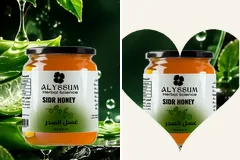
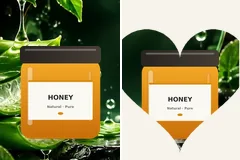
إزالة منتجات أليسوم من القوالب وبطاقات الأدوات: منتجات عامة بلا علامة + صور عامة لقالب عسل التركيز

diff --git a/scripts/gen-generic-products.py b/scripts/gen-generic-products.py
@@ -1,0 +1,57 @@
+#!/usr/bin/env python3
+"""يولّد صور منتجات عامة (بلا أي علامة أو منتج حقيقي) بخلفية شفافة: assets/img/tpl/generic-honey|cream|bottle.webp
+تُستعمل في بطاقات أدوات الصور وفي القوالب بدل صور منتجات أليسوم. بلا ذكاء اصطناعي: رسم بـPIL."""
+import os
+from PIL import Image, ImageDraw, ImageFilter, ImageFont
+R = os.path.dirname(os.path.dirname(os.path.abspath(__file__)))
+OUT = os.path.join(R, 'assets/img/tpl'); S = 4; W = H = 700
+FB = '/usr/share/fonts/truetype/dejavu/DejaVuSans-Bold.ttf'
+def font(sz):
+    try: return ImageFont.truetype(FB, sz * S)
+    except Exception: return ImageFont.load_default(size=sz * S)
+def grad(w, h, top, bot, horiz=False):
+    im = Image.new('RGBA', (w, h)); d = ImageDraw.Draw(im); n = w if horiz else h
+    for i in range(n):
+        t = i / max(1, n - 1); c = tuple(int(top[k] + (bot[k] - top[k]) * t) for k in range(3)) + (255,)
+        d.line([(i, 0), (i, h)] if horiz else [(0, i), (w, i)], fill=c)
+    return im
+def rr_mask(w, h, r):
+    m = Image.new('L', (w, h), 0); ImageDraw.Draw(m).rounded_rectangle([0, 0, w - 1, h - 1], r, fill=255); return m
+def paste_rr(base, im, x, y, r):
+    base.paste(im, (x, y), rr_mask(im.width, im.height, r))
+def shine(base, x, y, w, h, a=90):
+    g = Image.new('RGBA', base.size, (0, 0, 0, 0)); ImageDraw.Draw(g).rounded_rectangle([x, y, x + w, y + h], w // 2, fill=(255, 255, 255, a)); base.alpha_composite(g.filter(ImageFilter.GaussianBlur(2 * S)))
+def label(base, x, y, w, h, title, sub, accent, bg=(250, 248, 242)):
+    paste_rr(base, Image.new('RGBA', (w, h), bg + (255,)), x, y, 6 * S); d = ImageDraw.Draw(base)
+    d.rounded_rectangle([x, y, x + w, y + 10 * S], 3 * S, fill=accent + (255,))
+    f1, f2 = font(34), font(18)
+    for txt, f, yy, col in ((title, f1, y + h * .34, (40, 40, 40)), (sub, f2, y + h * .62, (110, 110, 110))):
+        tw = d.textlength(txt, font=f); d.text((x + (w - tw) / 2, yy), txt, font=f, fill=col + (255,))
+    # ورقة عامة
+    cx, cy = x + w / 2, y + h * .84; d.ellipse([cx - 14 * S, cy - 7 * S, cx + 14 * S, cy + 7 * S], fill=accent + (255,))
+def shadow(base, box):
+    sh = Image.new('RGBA', base.size, (0, 0, 0, 0)); ImageDraw.Draw(sh).ellipse(box, fill=(0, 0, 0, 70)); base.alpha_composite(sh.filter(ImageFilter.GaussianBlur(10 * S)))
+def jar(body_top, body_bot, lid, accent, title, sub):
+    c = Image.new('RGBA', (W * S, H * S), (0, 0, 0, 0)); cx = W * S // 2
+    bw, bh, bx, by = 420 * S, 420 * S, cx - 210 * S, 190 * S
+    shadow(c, [bx + 20 * S, by + bh - 8 * S, bx + bw - 20 * S, by + bh + 34 * S])
+    body = grad(bw, bh, body_top, body_bot, False); paste_rr(c, body, bx, by, 56 * S)
+    shine(c, bx + 34 * S, by + 40 * S, 30 * S, bh - 110 * S, 100); shine(c, bx + bw - 62 * S, by + 60 * S, 14 * S, bh - 150 * S, 55)
+    paste_rr(c, grad(bw + 8 * S, 92 * S, lid[0], lid[1], True), bx - 4 * S, by - 70 * S, 20 * S); shine(c, bx + 20 * S, by - 56 * S, bw - 40 * S, 12 * S, 70)
+    label(c, bx + 40 * S, by + 110 * S, bw - 80 * S, 210 * S, title, sub, accent)
+    c = c.resize((W, H), Image.LANCZOS); bb = c.getchannel('A').getbbox(); return c.crop(bb)
+def bottle():
+    c = Image.new('RGBA', (W * S, H * S), (0, 0, 0, 0)); cx = W * S // 2
+    bw, bx, by, bh = 300 * S, cx - 150 * S, 250 * S, 400 * S
+    shadow(c, [bx, by + bh - 10 * S, bx + bw, by + bh + 30 * S])
+    paste_rr(c, grad(bw, bh, (58, 40, 30), (28, 18, 12), True), bx, by, 46 * S); shine(c, bx + 28 * S, by + 24 * S, 22 * S, bh - 70 * S, 90)
+    paste_rr(c, grad(110 * S, 80 * S, (70, 50, 38), (40, 28, 20), True), cx - 55 * S, by - 70 * S, 14 * S)
+    paste_rr(c, grad(150 * S, 74 * S, (30, 30, 30), (60, 60, 60), True), cx - 75 * S, by - 140 * S, 30 * S)
+    ImageDraw.Draw(c).rounded_rectangle([cx - 14 * S, by - 220 * S, cx + 14 * S, by - 140 * S], 8 * S, fill=(40, 40, 40, 255))
+    label(c, bx + 34 * S, by + 100 * S, bw - 68 * S, 190 * S, 'NATURAL', 'ESSENTIAL OIL', (46, 125, 90))
+    c = c.resize((W, H), Image.LANCZOS); bb = c.getchannel('A').getbbox(); return c.crop(bb)
+if __name__ == '__main__':
+    items = {'generic-honey': jar((246, 170, 40), (200, 110, 10), ((40, 36, 32), (70, 62, 54)), (214, 140, 20), 'HONEY', 'Natural · Pure'),
+             'generic-cream': jar((250, 250, 248), (226, 232, 230), ((40, 120, 100), (60, 150, 124)), (40, 120, 100), 'CREAM', 'Skin Care'),
+             'generic-bottle': bottle()}
+    for k, im in items.items(): im.save(os.path.join(OUT, k + '.webp'), quality=92); print(k, im.size)

diff --git a/scripts/gen-tool-thumbs.py b/scripts/gen-tool-thumbs.py
@@ -1,5 +1,5 @@
 #!/usr/bin/env python3
-"""يولّد صور أدوات «تعديل الصورة» (assets/img/tools/*.webp): كل صورة نصفها قبل ونصفها بعد، من صور منتجات المتجر الحقيقية. بلا ذكاء اصطناعي."""
+"""يولّد صور أدوات «تعديل الصورة» (assets/img/tools/*.webp): كل صورة نصفها قبل ونصفها بعد، من صور منتجات عامة بلا علامة (scripts/gen-generic-products.py). بلا ذكاء اصطناعي."""
 import os, random, math
 from PIL import Image, ImageDraw, ImageFilter, ImageEnhance, ImageFont, ImageChops
 R = os.path.dirname(os.path.dirname(os.path.abspath(__file__)))
@@ -8,9 +8,9 @@ W, H = 240, 160
 def P(*a): return os.path.join(R, *a)
 def trim(im):
     bb = im.getchannel('A').point(lambda v: 255 if v > 24 else 0).getbbox(); return im.crop(bb) if bb else im
-HONEY = trim(Image.open(P('assets/img/miel-sidr/0.webp')).convert('RGBA'))
-CREAM = trim(Image.open(P('assets/img/anti-acne/cover-1791483275654.webp')).convert('RGBA'))
-KOHL = trim(Image.open(P('assets/img/ithmed/0.webp')).convert('RGBA'))
+HONEY = trim(Image.open(P('assets/img/tpl/generic-honey.webp')).convert('RGBA'))
+CREAM = trim(Image.open(P('assets/img/tpl/generic-cream.webp')).convert('RGBA'))
+KOHL = trim(Image.open(P('assets/img/tpl/generic-bottle.webp')).convert('RGBA'))
 def prod(im, h): return im.resize((max(1, round(im.width * h / im.height)), h), Image.LANCZOS)
 def scene(i, w=W, h=H):
     im = Image.open(P('assets/img/tpl/alyssum-sc%d.webp' % i)).convert('RGB'); s = max(w / im.width, h / im.height)

diff --git a/CLAUDE.md b/CLAUDE.md
@@ -108,6 +108,7 @@
 **معايرة الصوت (v1.89.61):** زر «اضبط كلمة النداء» في اللوحة (`AdminVoice.calibrate`) يطلب «hi اسم المتجر» ثلاث مرات ويحفظ صيغ النطق التي يلتقطها المتصفح في `localStorage alyssum_voice_wake` (`{variants,lang}`) فتُقبل كلمات نداء إضافية؛ `resetWake` يمسحها. **حدّ صريح:** Web Speech API يعطي نصاً لا صوتاً، فلا بصمة صوتية ولا تحقق من هوية المتكلم (أي صوت ينطق كلمة النداء يُنفّذ؛ الأمان من جلسة الدخول وتأكيد الأوامر الحساسة). أرقام منطوقة بالفصحى/الدارجة/الفرنسية (`numberIn`). **أضف صيغة جديدة في القاموس لا في الشيفرة**، ثم مثالاً في `examples`؛ اختبار: `node scripts/test-voice.js` (131 حالة، يقرأ admin.html وadmin-help.json والقاموس). اختُبر في Playwright على نسخة PHP محلية بمحاكاة `SpeechRecognition`؛ **لم يُجرَّب بميكروفون حقيقي** (جودة التعرّف على الدارجة تتفاوت وتعتمد على Chrome). المراحل القادمة: حالة الطلب/المرجع «هذا» للطلبات، محرّر الصفحات، فهم حرّ بالذكاء الاصطناعي.
 
 **v1.89.156 — المحاسب الفعلي (المالية والعملاء للقراءة):** `finance` و`customers` خرجتا من `SOON` (بقيت `ship, products, marketing, site`) وصارت `RO_TABS` {finance, payments, costs, customers} تُفتح لغير المالك **قراءةً فقط**؛ المحاسب = `orders, analytics, finance, customers`، والدعم والمدير المساعد يأخذان `customers`. الخادم: Supabase سياسة `staff finance read kv` على `admin_kv` (مفاتيح `costs, finset, stockcfg, stocklog, ydfees, ydactual, adcfg, costcalc, costmats, recipes` select فقط لمن `has_perm('finance')`؛ بقية المفاتيح كـ`guard_secret` مغلقة) في `supabase/roles.sql` (طُبِّق وجُرِّب بمعاملة تتراجع)؛ PHP: `kv` GET لمفاتيح المالية و`file` GET لـ`assets/data/payments.json` (finance) و`customers.json` (customers) فقط، وكل كتابة وبقية المسارات `needOwner()` (403 للموظف). الواجهة: `AdminRoles.isReadOnly/denyWrite` يحرسان `Priv.set` و`GH.putFile` و`AdminPayments.save` و`AdminCustomers.persist` (لا كتابة محلية صامتة للموظف)، وشريط `.rl-robar` «عرض فقط» أعلى كل قسم في `RO_TABS`، و`AdminPayments.load` يقرأ النسخة المنشورة لموظف بلا ربط نشر. **تنبيه خصوصية قائم:** `assets/data/payments.json` و`customers.json` ملفان عامان في الموقع المنشور (يقرؤهما أي زائر بالرابط) — اقتراح: نقلهما إلى التخزين الخاص (`admin_kv`/`kv`). `test-roles-ui.js` فيه سيناريو المحاسب (36 فحصاً) و`test-roles-php.php` 98.
+**قاعدة صور القوالب والأدوات (أمر صاحب المتجر: «انزع جميع منتجات أليسوم من القوالب والصورة الافتراضية، وضع صور عامة»):** القوالب وبطاقات الأدوات لا تحوي صور/أسماء منتجات أليسوم الحقيقية. المنتجات العامة الشفافة `assets/img/tpl/generic-honey|cream|bottle.webp` مولَّدة بلا علامة بـ`python3 scripts/gen-generic-products.py` (PIL، لا AI، وفي shared-files)؛ بطاقات `assets/img/tools/*` تُولَّد منها (`gen-tool-thumbs.py`)؛ `alyssum-banner-prod.webp` صار البرطمان العام نفسه؛ وقالب «هبوط: عسل التركيز» (`focus-honey.json`) صوره من صور `tpl/` العامة وslug `honey-landing` بلا منتج مربوط (`prod:""` تملؤه `libUse`). **أي قالب أو صورة افتراضية جديدة: صور من `assets/img/tpl/` أو العامة أعلاه فقط.** بقيت مشاهد `alyssum-*` (خلفيات نباتية بلا منتجات) وصور الفئات.
 **v1.89.162 — الصفحة بيضاء بلا شبكة افتراضياً في المطوّر (طلب صاحب المتجر):** الشبكة (`.pbx-nogrid` على جسم الإطار) صارت اختيارية: افتراضياً مخفية، وزر `#pbx-grid` «▦ شبكة» في الشريط العلوي (`PBApp.toggleGrid`) وعنصر «الدلائل» في قائمة الزر الأيمن للقسم يبدّلانها، والاختيار محفوظ في `localStorage pbx_grid` (`"1"` = ظاهرة) ويُطبَّق عند فتح كل صفحة (`gridOn()` في `FRAMEDOC`). لون الصفحة نفسه أبيض افتراضياً (`page.bg`). فحصان في test-hand.
 **v1.89.161 — إكمال أدوات الصور (أمر صاحب المتجر: «لا تتوقف حتى تكمل جميع الأدوات الممكنة، بطاقات نصف قبل ونصف بعد»):** كل أداة بطاقة بصورة نصفها قبل ونصفها بعد (`assets/img/tools/<id>.webp` من `scripts/gen-tool-thumbs.py`، بلا AI). في تبويب «تعديل الصورة» (`IMG_TOOLS` عشر أدوات + `IMG_SM` خمس ذكية، `EP_TABS`/`epBody`/`epDraw`/`epClose` تربط كل لوحة): **محلية بلا مفتاح:** `PBRetouch` «لمسات وتصحيح» (تحسين تلقائي، تقليل ضوضاء، تصحيح منظور، تغيير لون بالنقر Recolor، قص الحواف، vignette، حبيبات)، `PBFade` «حواف ناعمة Contour fondu» (مربع/دائرة بتمويه غاوسي يضبطه المستخدم، معاينة حيّة على الصورة نفسها عبر `PBApp.stPreview` ثم تطبيق PNG بشفافية)، `PBFrame` «إطار وهوية» (حدّ/زوايا/هامش/ظل بطاقة + ختم شعار محفوظ `pbx_brand_logo`)، `PBCollage` «كولاج» (8 قوالب من صور الصفحة)، `PBVideo` «فيديو من الصورة» (Ken Burns بـ`MediaRecorder`/`captureStream` → WebM/MP4 للتنزيل)، والممحاة بالفرشاة (`ERASER_ON=true`: MI-GAN محلي مع ترميم احتياطي). **ذكية بـAlyssum API** (`ImgGen.edit` الجديدة: تأكيد تكلفة + حدّ إنفاق + رمزا OFF/NOKEY، و`ImgGen.ready()` لحالة المفتاح): `PBAI` «توسيع الخلفية» (قماش مُجهَّز بهوامش مموّهة + تعليمات outpaint، ثم **يُلصق الأصل فوق الناتج بحافة مُنعَّمة فلا يمسّ المنتج بكسلاً**)، «تعديل بالوصف» (اقتراحات: لون المنتج، إضاءة، خلفية، إزالة…)، «أساليب تصوير ذكية» (12 أسلوباً AI Shot List)، و«مشهد ذكي». **أدوات المتجر:** `assets/js/admin-imgqa.js` (`AdminImgQA`، تبويب أدوات الصور): **فحص جودة الأغلفة** (دقة، وضوح بتباين لابلاس، إضاءة، حجم المنتج في الإطار، قصّ الحواف، خلفية ونسبة مخالفتان للأغلبية) **وكل ملاحظة بحلّها** (لا تقرير بلا حل) + **«طبّق نمط المتجر»** (نزع خلفية ← تحسين ← تركيب نمط استوديو المنتج المحفوظ) على المحدّد بمعاينة قبل/بعد ثم اعتماد يستبدل الأغلفة (القديمة تبقى في صور المنتج) وينشر مرة واحدة؛ وخيار «قالب المعالجة» داخل `AdminImgBatch` يطبّق النمط نفسه على أي دفعة. اختبارات: `NODE_PATH=/opt/node-tools/node_modules node scripts/test-imgtools.js` (46 فحصاً على Canvas حقيقي) وحالات الأدوات في test-hand. **دمج صورة داخل صورة (`PBBlend`، `pagebuilder-more.js`):** صورة صغيرة من صور الصفحة تُدمج في الكبيرة بحواف ناعمة (Contour fondu) وشفافية وأنماط مزج وموضع. **توسيع الصورة بالذكاء بإطار يُسحب للخارج (`PBAI` + `drawXp/startXp/xpApply` في pagebuilder-editor.js):** عند فتح أداة «توسيع الخلفية» يصير الإطار البنفسجي `.pbx-box.xp` بثمانية مقابض تُسحب **للخارج فقط** (الحالة `E.xp={id,l,r,t,b}` بوحدات الصفحة، حدّ 150% لكل جهة، والصورة لا تتحرك)، وزر النسبة/الموضع يضبط الإطار؛ «أنشئ خيارين» يُرسل طلبين (الثاني بتعليمة `VARIATION B` لامتداد مختلف) بتأكيد تكلفة واحد (`ImgGen.estimate()` ← ضعف التكلفة) ثم يعرض **خيارين للاختيار** (`S.vars`، `pickVar`) وفي كل منهما يُلصق الأصل فوق الناتج؛ التطبيق يرفع الصورة ثم يكبّر إطار العنصر **الحر** (`fx/fy/fwd/fh`) بقدر الإطار الموسَّع فيبقى الأصل بمقاسه ومكانه (العنصر غير الحر تُستبدل صورته فقط). إن اختلفت نسبة الإطار الظاهر عن نسبة الملف (قصّ cover) يُقصّ الأصل لنسبة الإطار قبل التوليد. اختبارات: test-imgtools (53) وحالات سحب الإطار والخيارين في test-hand. **حدود:** أدوات Alyssum API لم تُجرَّب بمفتاح حقيقي (محاكاة)، ونزع الخلفية/MI-GAN بالنماذج المحجوبة في بيئة الجلسة لم يُجرَّب بها (يعمل الكلاسيكي/الترميم المحلي)، والفيديو لا يُرفع للمكتبة تلقائياً (تنزيل).
 **v1.89.160 — تبويب «المعايرة» في لوحة المزوّد (لك وحدك؛ أمر صاحب المتجر: «بشرط تكون على صفحة إدارة SaaS لا يراها الزبائن»):** `saas/calibration.js` (`SaasCalib`) + تبويب `calib` في `saas/index.html`/`app.js` (لا يدخل مواقع الزبائن). يقرأ بلاغات المعايرة الصامتة (`saas_calib_issues`: تذاكر `payload.type=carrier_calibration`) ويجمّعها: (1) **حالات الطرود المجهولة** مجمّعة حسب (شركة، نص مطبَّع) بعدد المواقع والطرود، باقتراح برمجي بالكلمات المفتاحية (fr/ar/en، تخمين يراجعه المدير وليس قراراً آلياً) وزر «اعتمد وعمِّم» ← `saas_fix_set` (جدول `saas_carrier_fixes`، `saas/carrier-fixes.sql` **طُبِّق على المشروع الحقيقي** بإذنك السابق للـSupabase) ويُغلق التذاكر المرتبطة؛ (2) **مشاكل أخرى** (بلديات غير موجودة، فشل التتبع، webhook غير مفهوم) مجمّعة بعدد المواقع مع «تمّت المعالجة»؛ (3) قائمة القرارات المعتمدة وحذفها. **التعميم التلقائي:** `saas_carrier_fixes()` قراءة عامة بلا أسرار (anon)؛ لوحة الزبون (`ShipAgg.syncFixes` عند كل تحميل، بصمة `alyssum_fixes_h` تمنع التكرار) تجلبها عبر `SaasClient.fixes()` وتدمج قرارات شركاته فقط في ملف الاتصال: PHP `ship_fixes` ← `ConnectionRepository::applyFixes` والبوابة `POST /v1/connections/fixes`، ويحفظها الملف في المفتاح `fixes` الذي **يسبق القاموس و`status_overrides`** في `mapStatus/explainStatus` (PHP وJS) ويبقى عبر إعادة المعايرة. **تنبيه:** تطبيع `norm` في المتصفح يجب أن يطابق `StatusMapper::normalize` و`normText` حرفياً (اختبار تطابق في `test-shipagg.js`). `Calibrator::summary` صار يعيد `statuses.unknown_list` (حتى 20) وتبلغ لوحة الزبون `payload.unknown` منظَّمةً. اختبارات: `test-calibration.php` (63)، `gateway.test.mjs` (121)، `test-shipagg.js` (36). **حدّ:** القرار يصل لموقع الزبون عند فتحه لوحته؛ وقرار شركة بعينها لا يعمّم على شركات أخرى من العائلة نفسها (اعتمده لكل رمز شركة).
